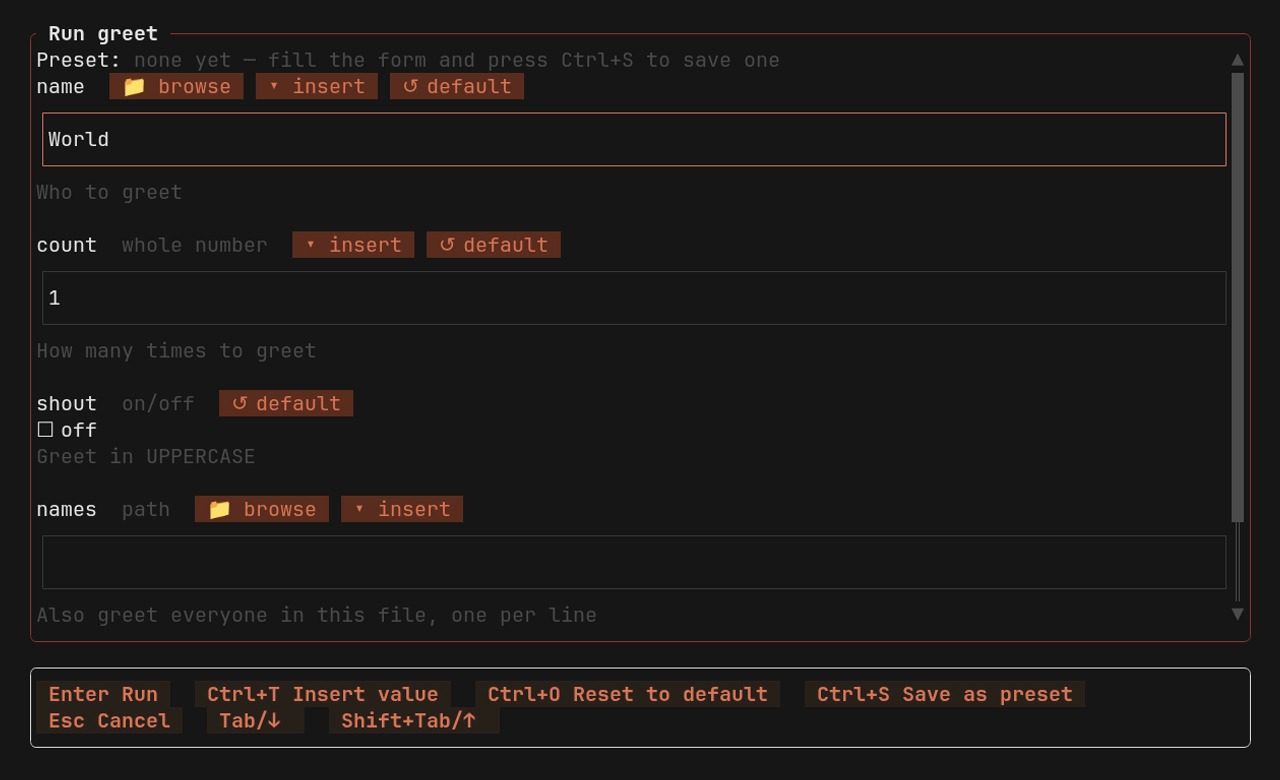
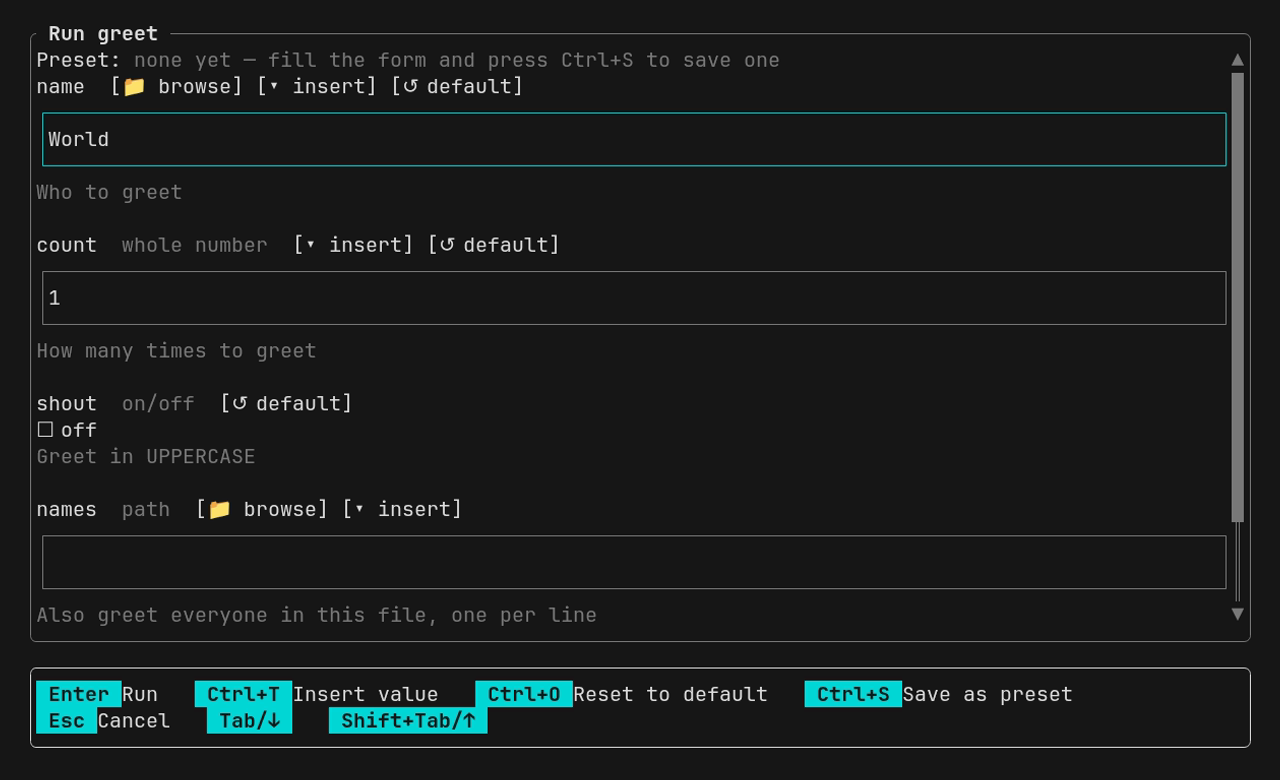
docs: refresh the demo assets for the terminal theme
scripts/record_demo.sh re-recorded the 12 README screenshots. VHS draws
with xterm.js, which answers the color question as a dark terminal, so the
screenshots show the new default look with the cyan accent.

The configuration page says that a button shows brackets and reverses when
it has the focus. The design doc records the gates, the review, and the
demo, and lists phases 0 to 6 as done.

diff --git a/docs/design/terminal-palette.md b/docs/design/terminal-palette.md
@@ -1,6 +1,7 @@
 # Terminal palette design
 
-Status: owner-approved design, 2026-09-23. Phases 0 to 5 are done, and phase 6 is in progress; see "Phases".
+Status: owner-approved design, 2026-09-23. Phases 0 to 6 are done; see "Phases". Not verified:
+Windows, and the mutation gate (deferred by the owner).
 
 ## Decision
 
@@ -403,9 +404,9 @@ first, because the output filter does not depend on the role refactor.
    supports virtual terminal processing wherever skit's interface runs. `TEXTUAL_COLOR_SYSTEM`,
    a Textual override, is not ported.
 5. `terminal` theme. Done on 2026-09-23 so far:
-   - `skit config theme terminal|skit` (commit `a2a863bf`). The `config` help line keeps its
-     version 0.4 wording, which a contract test pins, so the new key shows in `skit config`, in
-     `--json`, and in shell completion instead.
+   - `skit config theme terminal|skit` (commit "feat(tui): add the terminal theme"). The `config`
+     help line keeps its version 0.4 wording, which a contract test pins, so the new key shows in
+     `skit config`, in `--json`, and in shell completion instead.
    - Every census environment names its theme in `config.toml`. Four terminal-theme environments
      (dark, light, unknown background, `NO_COLOR`) bring the census to 312 files, and each
      terminal-theme frame passes the rule check: no 24-bit color, no index above 15, no black,
@@ -431,10 +432,11 @@ first, because the output filter does not depend on the role refactor.
      depth, background, and `NO_COLOR`. A session that started in the `skit` theme did not ask
      for the background, so a switch to `terminal` during the session has no accent hue until
      the next start.
-   - The default switch (commit `7038e6f6`). `DEFAULT_THEME` in skit-store and `tui_theme` in
-     skit-cli both give `terminal`, and `the_default_theme_is_terminal` and
-     `the_terminal_theme_is_the_default` pin it. The switch sent the color question to every
-     existing PTY test, and three failures showed that the answers share the input with the keys:
+   - The default switch (commit "feat(tui): default to the terminal theme"). `DEFAULT_THEME` in
+     skit-store and `tui_theme` in skit-cli both give `terminal`, and
+     `the_default_theme_is_terminal` and `the_terminal_theme_is_the_default` pin it. The switch sent
+     the color question to every existing PTY test, and three failures showed that the answers share
+     the input with the keys:
      - The question read the `Esc` that a test typed ahead. skit now asks only when no input is
        waiting (`crossterm::event::poll` with a zero timeout, in raw mode).
      - A late answer became keys: it opened the selected entry and typed `gb:ffff/…` into its
@@ -473,6 +475,24 @@ first, because the output filter does not depend on the role refactor.
      section, the color question with its input rules, and the reverse selection under
      `NO_COLOR`. No item went to `docs/parity-backlog.md`: every version 0.4 gap that this design
      found was restored in phases 1, 3, and 4.
+   - `WT_SESSION` in `environment` (commit "feat(tui): default to the terminal theme"); see the
+     Windows note in phase 5.
+   - Gates on Linux (`skit-linux`): the full workspace suite, the walker review corpus
+     (`generates_and_reinstalls_the_stable_review_corpus`, 1015 s), and the coverage gate. The first
+     coverage run found 17 lines that no test ran. End-to-end tests closed most of them; code that
+     no frame can reach was restructured, and the forwarders got the one isolated test of phase 1
+     (commit "fix(tui): mark buttons, titles, and overlays in the terminal theme"). The gate then
+     reported complete line coverage. The mutation gate stays deferred by the owner's ruling.
+   - A review of the whole branch found six defects in the terminal theme: idle buttons that read
+     as plain text, titles that carried the dim of their border, two post-passes sized by the
+     widget's click region instead of its painted cells, an overlay border that looked idle,
+     idle selects that were not dim, and a gray English "No items". Each got a failing
+     end-to-end test first (same commit); see "Widgets that need a post-pass" for the
+     button rule.
+   - Demo assets: `scripts/record_demo.sh` re-recorded the 12 tracked README screenshots with the
+     new default. VHS draws with xterm.js, which answers OSC 11 (`rgb:1717/1717/1717`, dark) and
+     DA1, so the screenshots show the cyan accent that a dark terminal gets. The three videos are
+     not tracked (`.gitignore`), so a release must upload them again.
 
 At the end of each wave, the Linux prompt reruns the census on Linux and diffs it against the
 committed files, and runs the walker corpus.

diff --git a/CONTRIBUTING.md b/CONTRIBUTING.md
@@ -131,9 +131,39 @@ npm run types:check
 npm run build
 ```
 
-The screenshot and video pipeline is `bash scripts/record_demo.sh`. It needs Docker. Regenerate the
-assets when TUI copy or layout changes. VHS does not record a mouse pointer, so the generated demo
-does not include a mouse pointer.
+### Demo assets
+
+`bash scripts/record_demo.sh` renders the 12 README screenshots
+(`docs/assets/tui-*-{en,zh-CN,zh-TW}.png`) and the three demo videos
+(`docs/assets/demo-{en,zh-CN,zh-TW}.mp4`). It needs Docker. Regenerate the assets when TUI copy,
+layout, or colors change.
+
+Git ignores the videos. GitHub serves an mp4 file from the repository as a download, so each README
+`<video>` tag points at a GitHub attachment URL (`github.com/user-attachments/assets/…`). To refresh
+a video, drag the new file into a pull request or issue comment, copy the attachment URL that
+GitHub makes, and put it in the `src` of the `<video>` tag of that locale's README:
+`demo-en.mp4` in `README.md`, `demo-zh-CN.mp4` in `README.zh-CN.md`, and `demo-zh-TW.mp4` in
+`README.zh-TW.md`.
+
+`docs/assets/demo-mouse.gif` shows skit driven by the mouse alone. VHS cannot drive a mouse, so a
+person records this clip by hand. It is the only demo asset that the pipeline does not make. It
+shows the English interface and appears in all three READMEs. `record_demo.sh` does not change it,
+so record it again when the screens in it change. Record the screen (for example, with QuickTime),
+then convert the part to keep:
+
+```bash
+SRC=recording.mov  # macOS puts a narrow no-break space before AM or PM in the name: use a glob
+START=16           # first second to keep
+LENGTH=21          # seconds to keep, before the 1.5x speed-up
+common="setpts=PTS/1.5,fps=15,scale=1000:-1:flags=lanczos"
+ffmpeg -y -ss "$START" -t "$LENGTH" -i "$SRC" -vf "${common},palettegen=stats_mode=diff" pal.png
+ffmpeg -y -ss "$START" -t "$LENGTH" -i "$SRC" -i pal.png \
+  -lavfi "${common} [x]; [x][1:v] paletteuse=dither=bayer:bayer_scale=3:diff_mode=rectangle" \
+  docs/assets/demo-mouse.gif
+```
+
+Keep the clip short: about 15 seconds after the speed-up and less than 2 MB. A full-length clip of
+one minute came out at about 18 MB.
 
 ## Benchmarks
 
